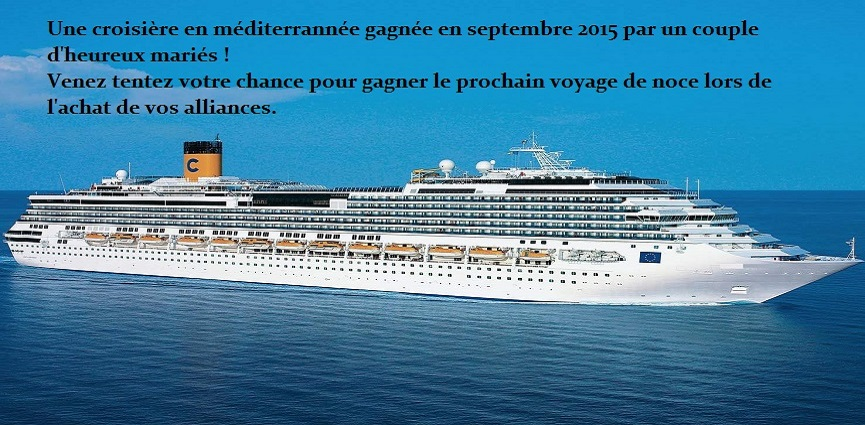
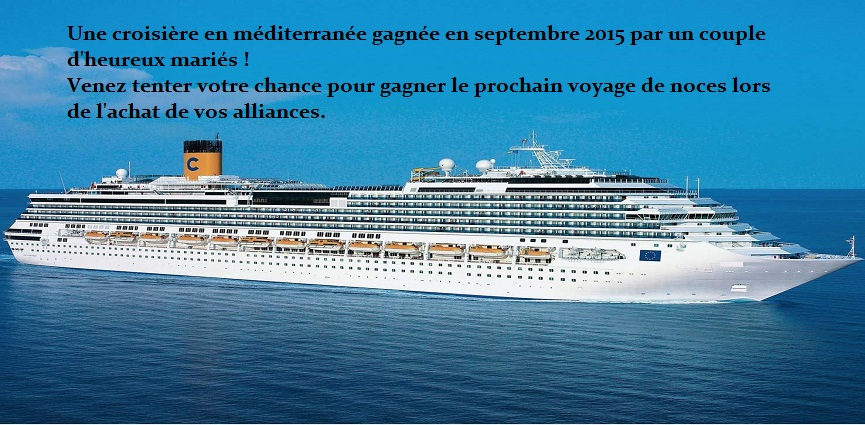
correction coquilles

diff --git a/bijouterie.html b/bijouterie.html
@@ -100,10 +100,10 @@
 		<div class="texte-bijouterie" id="alliance">
 			<h1>Alliances</h1>
 			<div class="texteBij">
-				<p>Qu'elle soit en or jaune, blanc ou en platine, serti de diamants ou jonc simple, assortie ou non à celle de votre conjoint, venez profiter d'un large choix d'aliances en magasin et de nos conseils pour vous aider dans ce choix important.<br/>
+				<p>Qu'elle soit en or jaune, blanc ou en platine, sertie de diamants ou jonc simple, assortie ou non à celle de votre conjoint, venez profiter d'un large choix d'aliances en magasin et de nos conseils pour vous aider dans ce choix important.<br/>
 				Chacune de nos alliance peut être personalisée par une gravure à votre convenance.</p>
 				<p>Lors de l'achat de vos alliances vous participez à notre jeu-concours organisé par le groupement nouveaux bijoutiers pour tenter de gagner votre voyage de noces !<br/>
-				Après un voyage à Cuba gagnée il y a quelques années, c'est une croisière en mediterrannée, en septembre 2015, qui vient d'être remportée  par un heureux couple de jeunes mariés.</p>
+				Après un voyage à Cuba gagné il y a quelques années, c'est une croisière en mediterranée, en septembre 2015, qui vient d'être remportée  par un heureux couple de jeunes mariés.</p>
 				<div  id="bague" ></div>	
 			</div>
 			<div class="photoBij">
@@ -114,7 +114,7 @@
 		<div class="texte-bijouterie">
 			<h1>Bagues</h1>
 			<div class="texteBij">				
-				<p>La bijouterie Beauché vous offre un large choix de bagues en or ou en argent, avec des pierres précieuses (diamant, emeraude, rubis et saphir), des pierres fines (améthyste, aigue-marine, citrine, grenat...) ou des perle.</p>
+				<p>La bijouterie Beauché vous offre un large choix de bagues en or ou en argent, avec des pierres précieuses (diamant, emeraude, rubis et saphir), des pierres fines (améthyste, aigue-marine, citrine, grenat...) ou des perles.</p>
 				<div id="boucle"></div>
 			</div>
 			<div class="photoBij">
@@ -153,7 +153,7 @@
 			<h1>Colliers et bracelets</h1>
 			<div class="texteBij">
 				<p>Découvrez des bijoux en or, argent ou plaqué or, des bijoux, en mailles ou en chaines et qui peuvent être sertis de pierres précieuses et fines. Mais aussi des colliers et bracelets en perle de culture (Japon et Tahiti).</p>
-				<p>Nombre de nos colliers et bracelets sont disponible en parure afin d'accorder au mieux votre style.</p>
+				<p>Nombre de nos colliers et bracelets sont disponibles en parure afin d'accorder au mieux votre style.</p>
 			</div>
 			<div class="photoBij">
 				<img src="images/bijouterie/bracelets-bijouterie-horlogerie-beauche-trouville.jpg" alt="bracelets or saphir bijouterie horlogerie beauche trouville">

diff --git a/index.html b/index.html
@@ -63,8 +63,8 @@
 			<div id="texte-accueil">
 				<h1>Présentation</h1>	
 				<p>Philippe Beauché, bijoutier et maître horloger fort de 35 ans d'expérience, vous accueille dans son magasin de Trouville. Il vous fera profiter de ses conseils dans le choix de vos montres et de vos bijoux.<br/>Située à deux pas de la place Tivoli et de la plage, la bijouterie Beauché est l'endroit où vous trouvererez la montre, le collier ou la bague dont vous reviez pour vous ou pour vos proches.<p>
-				<p>Dipomé de l'école d'horlogerie de Rennes Philippe Beauché assure des prestations de qualité en horlogerie et bijouterie et vous accompagne dans la création de bijoux personnalisés selon vos souhaits.</p>
-				<p>Ce savoir faire permet de conserver une tradition d'artisanat d'art qui séduit une clientèle à la recherche d'une garantie de qualité, de sérieux dans le respect du goût du client.<br/>Ce gage de qualité est affirmé par l'appartenance de la bijouterie Beauché au groupement nationnal Nouveaux Bijoutiers permettant un grand choix de bijoux et montres de qualité ainsi que de nombreux avantages pour sa clientèle (partenariat, concours...)</p>
+				<p>Diplomé de l'école d'horlogerie de Rennes, Philippe Beauché assure des prestations de qualité en horlogerie et bijouterie et vous accompagne dans la création de bijoux personnalisés selon vos souhaits.</p>
+				<p>Ce savoir faire permet de conserver une tradition d'artisanat d'art qui séduit une clientèle à la recherche d'une garantie de qualité, de sérieux dans le respect du goût du client.<br/>Ce gage de qualité est affirmé par l'appartenance de la bijouterie Beauché au groupement national Nouveaux Bijoutiers permettant un grand choix de bijoux et montres de qualité ainsi que de nombreux avantages pour sa clientèle (partenariat, concours...).</p>
 			</div>
 			<div id="portrait">
 				<img src="images/accueil/philippe-beauche-bijouterie-horlogerie-trouville.jpg" alt="portrait philippe beauche maitre horloger bijoutier trouville">

diff --git a/horlogerie.html b/horlogerie.html
@@ -3,7 +3,7 @@
 	<head>
 		<meta charset="utf-8" />
 		<link rel="stylesheet" href="style.css" />
-		<title>Bijouterie Beauché, 65 rue des bains 14360 Trouville - Horlogerie</title>
+		<title>Bijouterie Beauché, 65 rue des bains 14360 Trouville sur mer - Horlogerie</title>
 		<meta name="description" content="Philippe beauché bijoutier et maître horloger vous propose un large choix de montres et pièces d'horlogerie."/>
 	</head>
 	
@@ -60,7 +60,7 @@
 		</div>
 		<div class="texte-horlogerie">
 			<h1>Nos marques</h1>
-			<p>Vous trouverez dans notre magasin un grand choix de montre pour homme, pour femme et pour enfant. Que vous préfériez des aiguilles ou un affichage digital, un bracelet en cuir ou en métal venez découvrir nos marque et nos modèles. </p>
+			<p>Vous trouverez dans notre magasin un grand choix de montres pour homme, pour femme et pour enfant. Que vous préfériez des aiguilles ou un affichage digital, un bracelet en cuir ou en métal venez découvrir nos marques et nos modèles. </p>
 		</div>
 		<div> 
 			<ul id="liste-marque">
@@ -96,7 +96,7 @@
 		<div class="texte-horlogerie">
 			<p>Tous les modèles présentés sont disponibles en magasin ou à la commande dans les plus brefs délais.<br/>
 			Pour tout achat la mise à taille du bracelet est offerte.</br>
-			Vous trouverez aussi en magasin un grand choix de réveils et de pendules</p>
+			Vous trouverez aussi en magasin un grand choix de réveils et de pendules.</p>
 			<img src="images/horlogerie/reveils-bijouterie-horlogerie-beauche-trouville.jpg" alt="vitrine de reveils bijouterie horlogerie trouville">			
 		</div>
 			

diff --git a/fabrication.html b/fabrication.html
@@ -3,7 +3,7 @@
 	<head>
 		<meta charset="utf-8" />
 		<link rel="stylesheet" href="style.css" />
-		<title>Bijouterie Beauché, 65 rue des bains 14360 Trouville - Fabrication</title>
+		<title>Bijouterie Beauché, 65 rue des bains 14360 Trouville sur mer - Fabrication</title>
 		<meta name="description" content="Philippe beauché bijoutier et maître horloger vous aide à créer un bijou unique ou à modifer un de vos anciens bijoux."/> 
 	</head>
 	
@@ -27,7 +27,7 @@
 		</header>
 		<div class="texte-fabrication">
 			<h1>Fabrication et transformation</h1>
-			<p>Vous n'avez pas envie de voir d'autre personnes avec la même bague que vous?<br/>
+			<p>Vous n'avez pas envie de voir quelqu'un avec la même bague que vous?<br/>
 			Philippe Beauché peut vous aider à créer un bijou unique. A partir de vos envies nous pourrons dessiner un croquis, choisir le matérieu, les pierres et établir gratuitement un devis avec vous.</p>
 			<p>A partir de vos anciens bijoux en or et de vos pierres il est aussi possible de créer une toute nouvelle pièce.<br/></p>
 			<img src="images/atelier/fabrication-modification-bijouterie-horlogerie-beauche-trouville.jpg" alt="or pierre croquis fabrication bijoux bijouterie horlogerie beauche trouville">

diff --git a/atelier.html b/atelier.html
@@ -3,7 +3,7 @@
 	<head>
 		<meta charset="utf-8" />
 		<link rel="stylesheet" href="style.css" />
-		<title>Bijouterie Beauché, 65 rue des bains 14360 Trouville - Atelier</title>
+		<title>Bijouterie Beauché, 65 rue des bains 14360 Trouville sur mer - Atelier</title>
 		<meta name="description" content="Philippe beauché bijoutier et maître horloger vous propose de nombreux services de réparation et restauration grâce à son atelier sur place."/> 
 	</head>
 	
